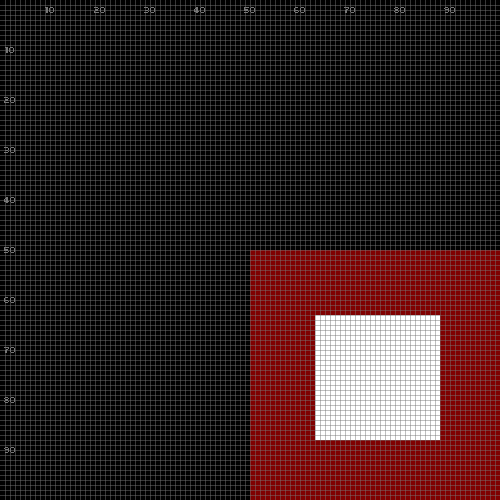
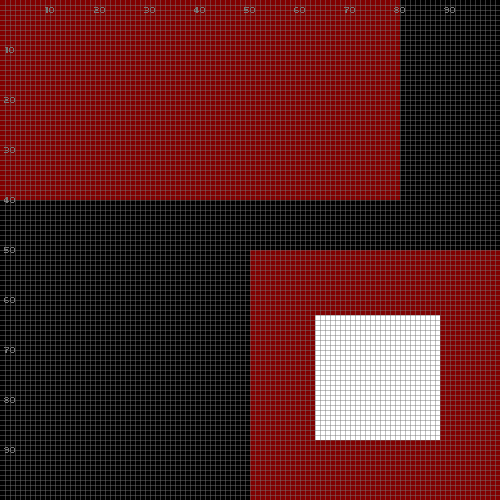
* scene : resolve ratio at set, not draw

diff --git a/src/pico.c b/src/pico.c
@@ -657,7 +657,27 @@ void pico_set_scene_dim (Pico_Rel_Dim dim) {
 
 void pico_set_scene_dst (Pico_Rel_Rect dst) {
     _pico_guard();
-    G.layer->scene.dst = dst;
+    Pico_Layer* L = G.layer;
+    if (dst.w == 0 || dst.h == 0) {
+        // aspect-fill: resolve eagerly so cv walks and draw-time
+        // see a concrete '!' rect. '%' needs parent's dim as base;
+        // '!' and '#' self-resolve via L's own dim / tile.
+        Pico_Abs_Rect Pb = {0, 0, 0, 0};
+        if (dst.mode == '%') {
+            assert (
+                L->hier.up != NULL
+                && "'%' aspect-fill dst requires a parent"
+            );
+            Pico_Layer* P = _pico_layer_name(L->hier.up);
+            Pb.w = P->scene.dim.w;
+            Pb.h = P->scene.dim.h;
+        }
+        SDL_FRect f = _sdl_rect(dst, &Pb, &L->scene.dim);
+        dst = (Pico_Rel_Rect) {
+            '!', {f.x, f.y, f.w, f.h}, PICO_ANCHOR_NW
+        };
+    }
+    L->scene.dst = dst;
     _pico_output_present(0);
 }
 